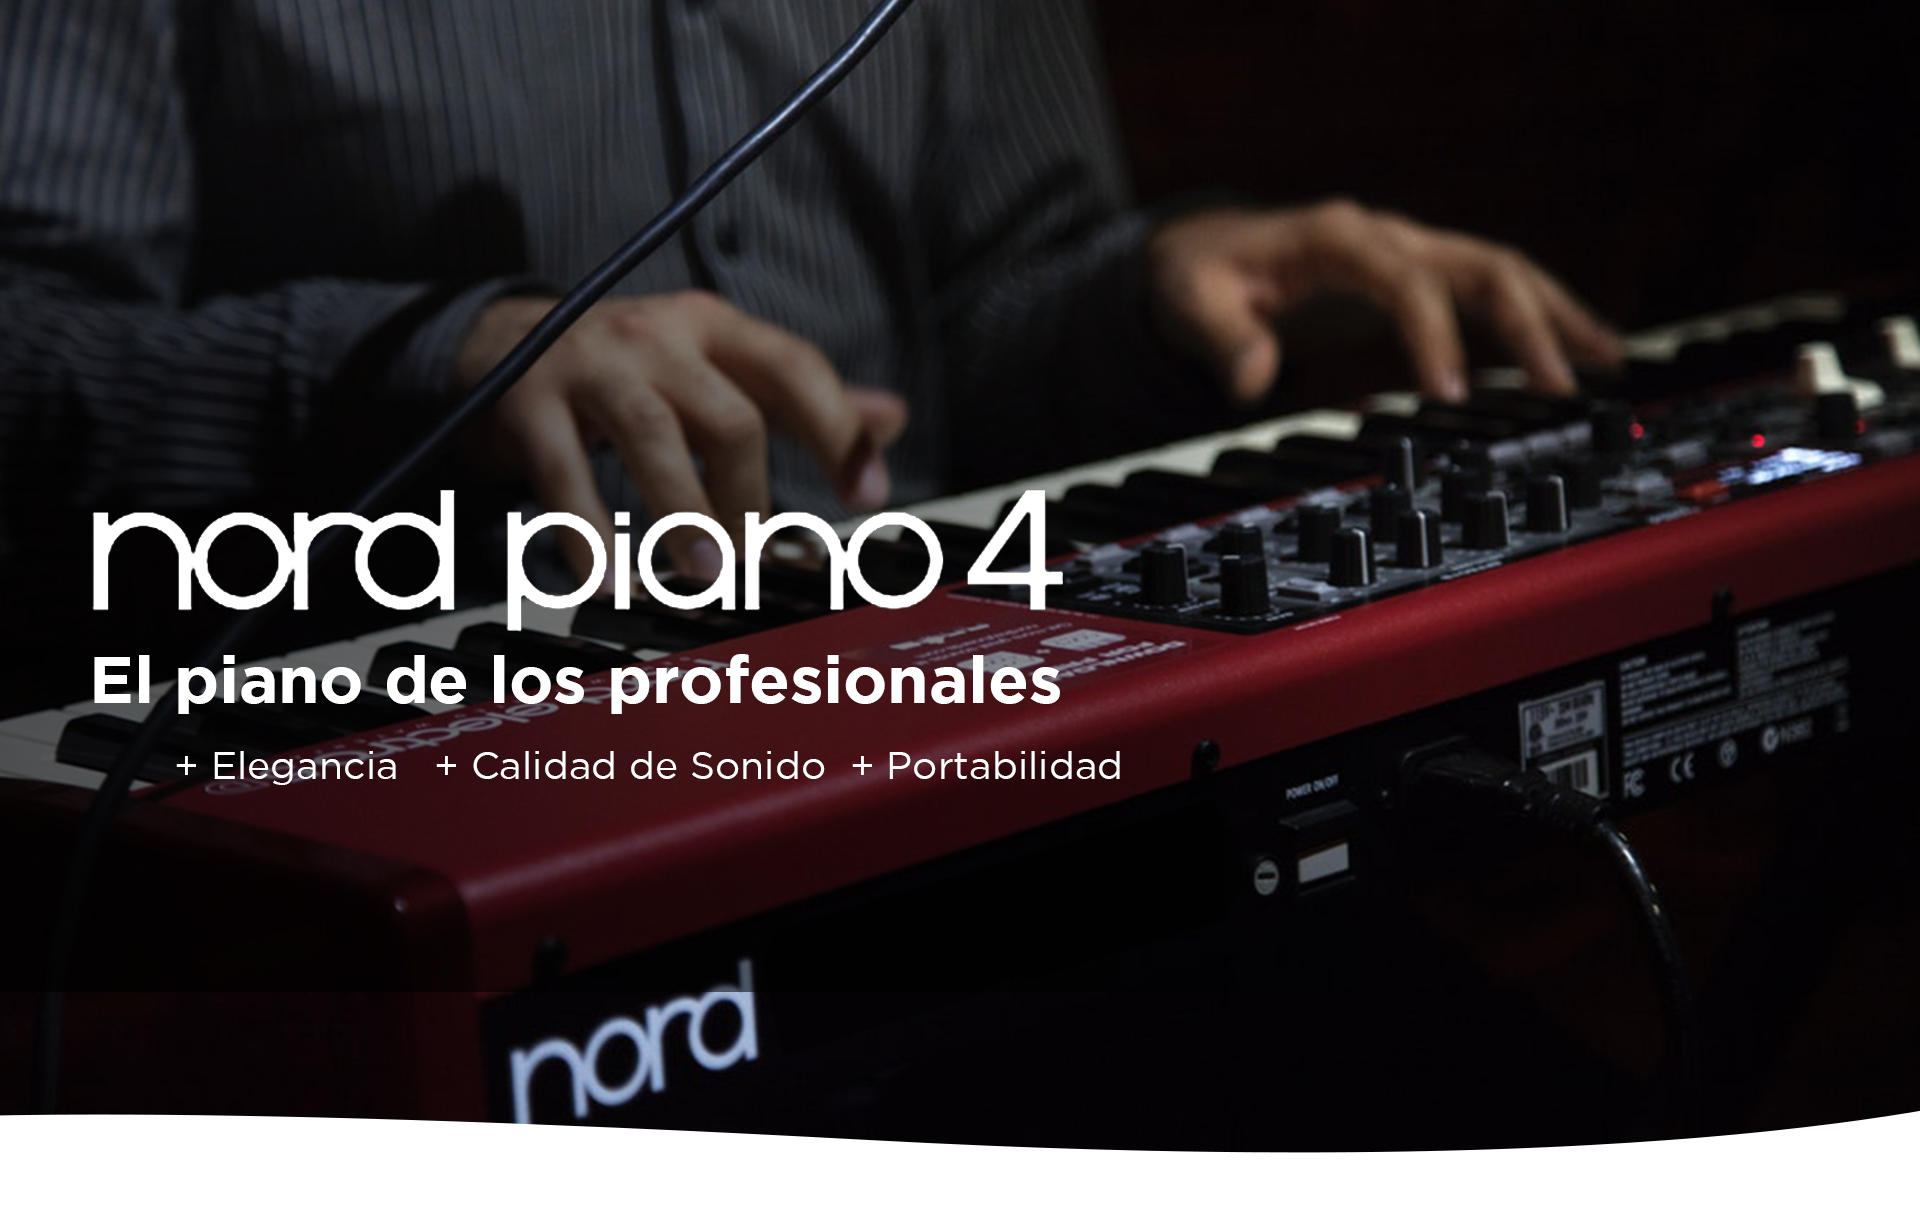
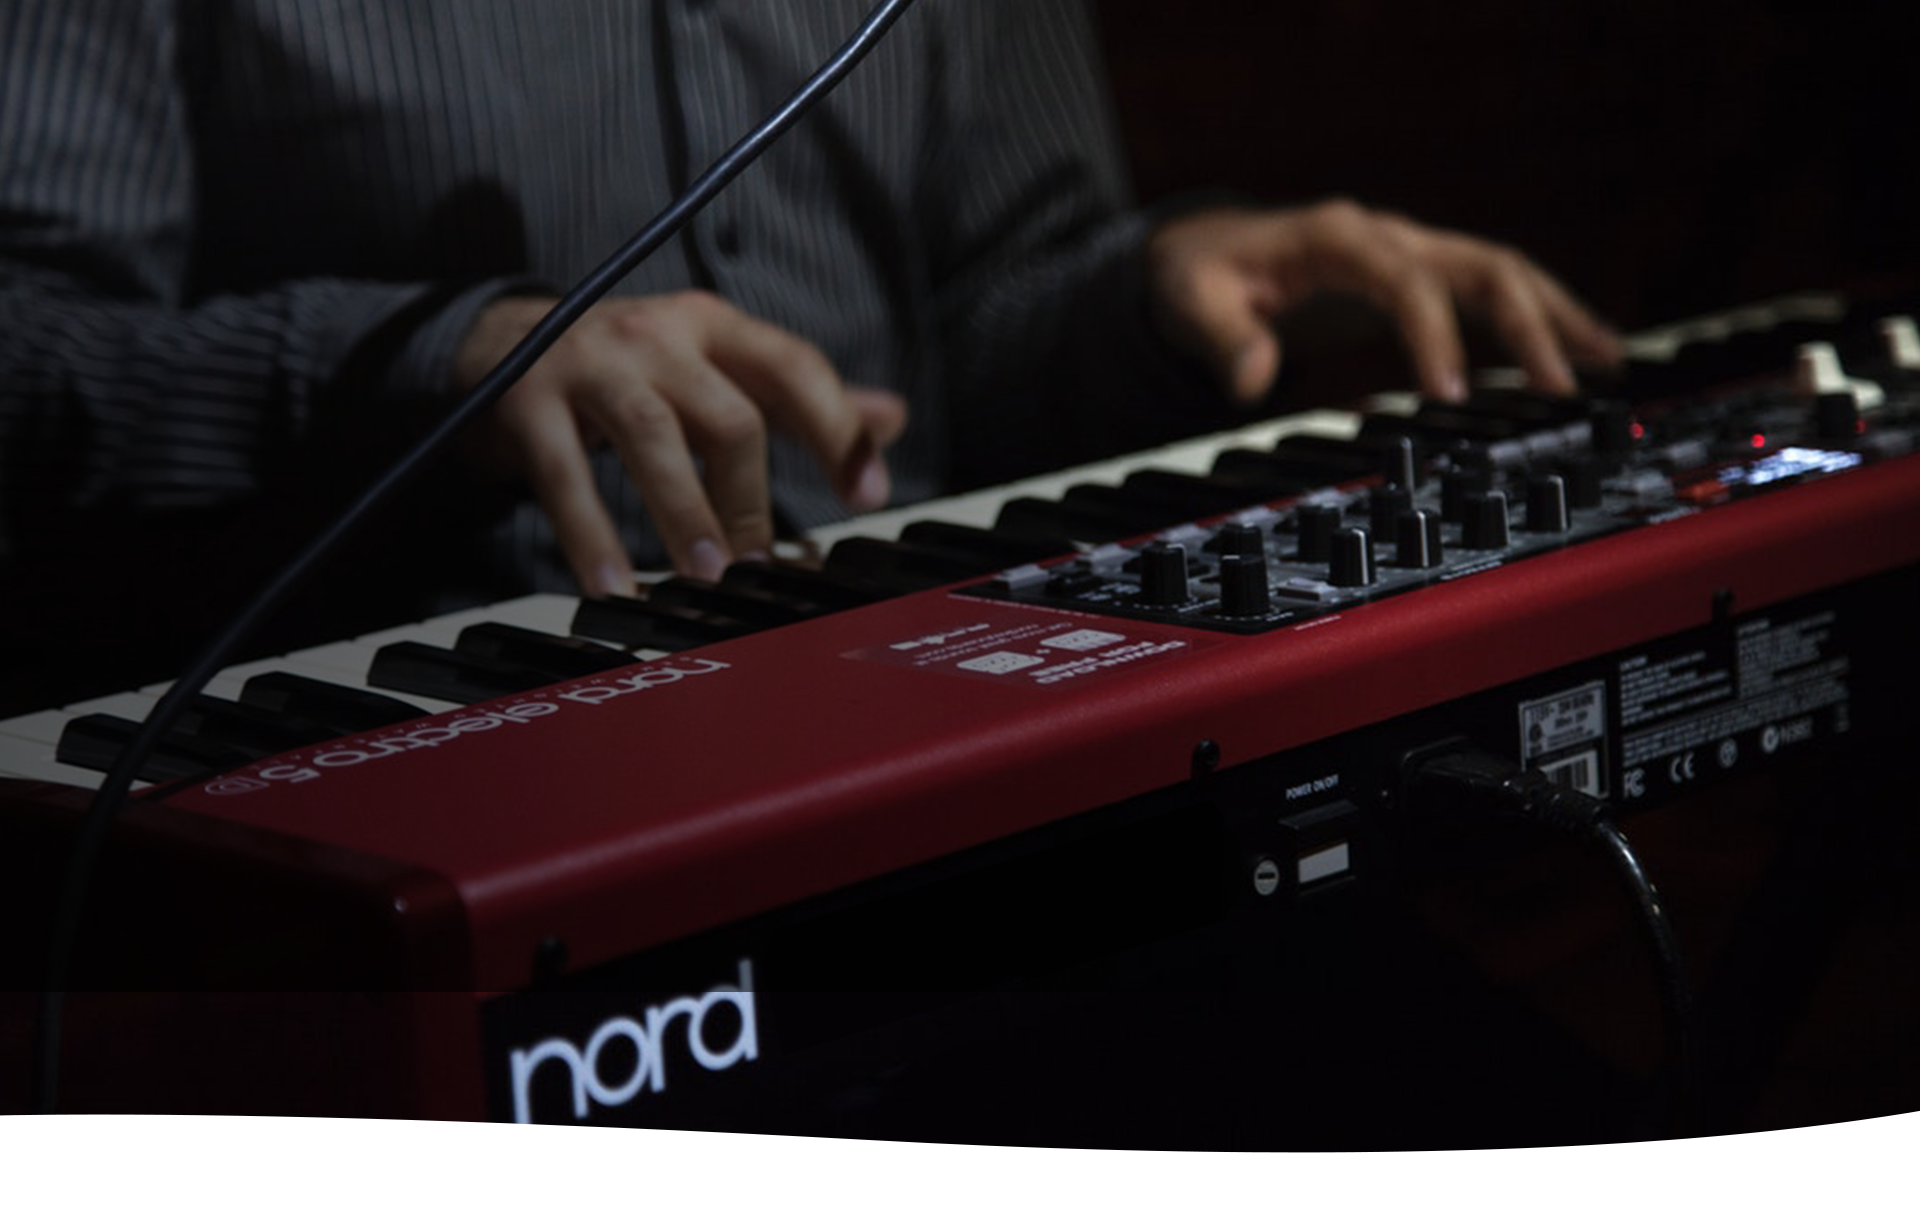
A nada de terminar

diff --git a/style.css b/style.css
@@ -1,3 +1,7 @@
+*{
+    scroll-behavior: smooth;
+}
+
 body{
     margin:0;
    
@@ -34,12 +38,35 @@ body{
 }
 
 .hypertext{
+    
     padding-left: 20px;
     padding-right: 20px; 
     text-decoration: none;
     color: #fff;
     outline: none;
     cursor: pointer;
+    
+}
+.hypertext:hover{
+    opacity: 0.8;
+}
+
+.portada__text--2{
+    font-family: 'Montserrat', sans-serif;
+    color: white;
+    position: absolute;
+    bottom: 20%;
+    padding-left: 9%; 
+    font-size: 3vw;
+}
+.portada__text{
+    font-family: 'Montserrat', sans-serif;
+    color: white;
+    position: absolute;
+    bottom: 20%;
+    font-size:6vw;
+    padding-left: 5%; 
+
 }
 
 .portada__img{
@@ -228,6 +255,7 @@ body{
     color: #fff;
     background-color: #bc0404;
     border: 0;
+    cursor: pointer;
 }
 .details{
     background-color: #38383c;
@@ -332,6 +360,15 @@ body{
 
 .interact__buttons img{
    padding: 5%;
+   cursor: pointer;
+
+}
+.interact__buttons img:hover{
+opacity: 0.6;
+}
+
+.interact__btn:hover{
+    opacity: 0.6;
 }
 
 
@@ -394,6 +431,27 @@ align-content: center;
     width: 100%;
     height: auto;
 }
+.adds{
+    margin-top: 2%;
+ }
+ .adds__blocks{
+     margin-left: auto;
+     margin-right: auto;
+     width: 33.3%
+ }
+
+ .adds__line{
+     
+     width: 100%;
+     font-size: 12px;
+     margin: 0;
+ }
+
+ .adds img{
+     width: 100px;
+     height: 75px;
+     margin: 0;
+ }
 
 @media (max-width: 750px){
     .header{
@@ -489,6 +547,24 @@ align-content: center;
          height: 75px;
          margin: 0;
      }
+
+     .portada__text--2{
+        font-family: 'Montserrat', sans-serif;
+        color: white;
+        position: absolute;
+        bottom: 30%;
+        padding-left: 9%; 
+        font-size: 3vw;
+    }
+    .portada__text{
+        font-family: 'Montserrat', sans-serif;
+        color: white;
+        position: absolute;
+        bottom: 30%;
+        font-size:6vw;
+        padding-left: 5%; 
+    
+    }
 
 
 }
@@ -604,6 +680,24 @@ align-content: center;
     .footer__img{
         margin-top: auto;
         margin-bottom: auto;
+    }
+
+    .portada__text--2{
+        font-family: 'Montserrat', sans-serif;
+        color: white;
+        position: absolute;
+        bottom: 60%;
+        padding-left: 9%; 
+        font-size: 3vw;
+    }
+    .portada__text{
+        font-family: 'Montserrat', sans-serif;
+        color: white;
+        position: absolute;
+        bottom: 60%;
+        font-size:6vw;
+        padding-left: 5%; 
+    
     }
 
     

diff --git a/main.js b/main.js
@@ -12,10 +12,13 @@ function handleScroll(event){
             }
         }
 }
+
 window.addEventListener('scroll', handleScroll);
 
 var musicButton = document.getElementById('S1');
 
+
+//---------------------------------------------------
 
 function handleClick(event){
     var options = document.querySelectorAll('interact__buttons');
@@ -44,6 +47,7 @@ function handleClick(event){
 
 
 musicButton.addEventListener('Click', handleClick);
+
 
 
 

diff --git a/index.html b/index.html
@@ -32,6 +32,8 @@
 
     <div class="portada">
         <img class="portada__img" src="DATA/portada.png" alt="piano4"  >
+        <h3 class="portada__text">NORD PIANO 4</h3>
+        <p class="portada__text--2"> +Calidad +Elegancia +Nord</p>
     </div>
 
     <div class="transicion">
